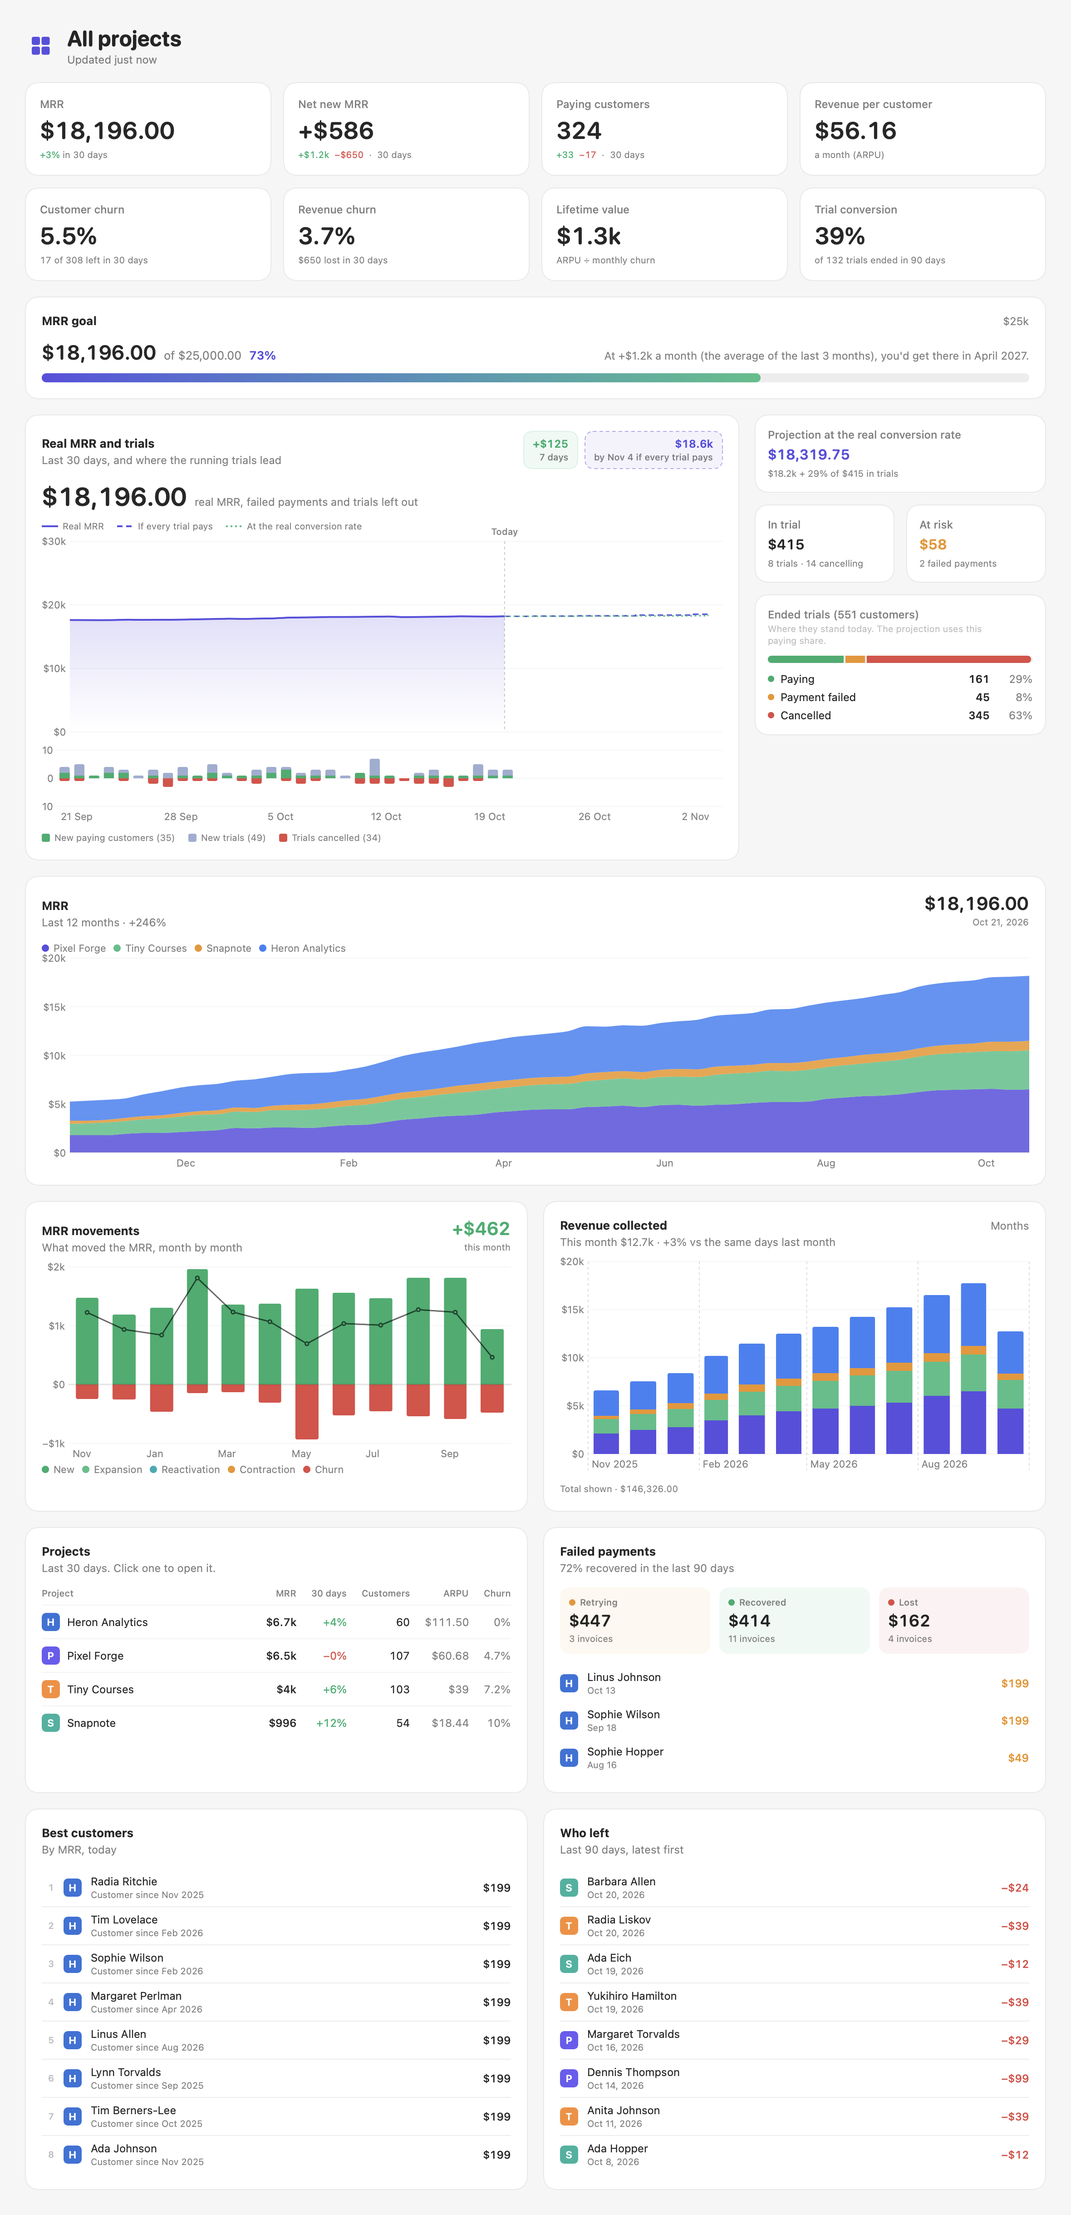
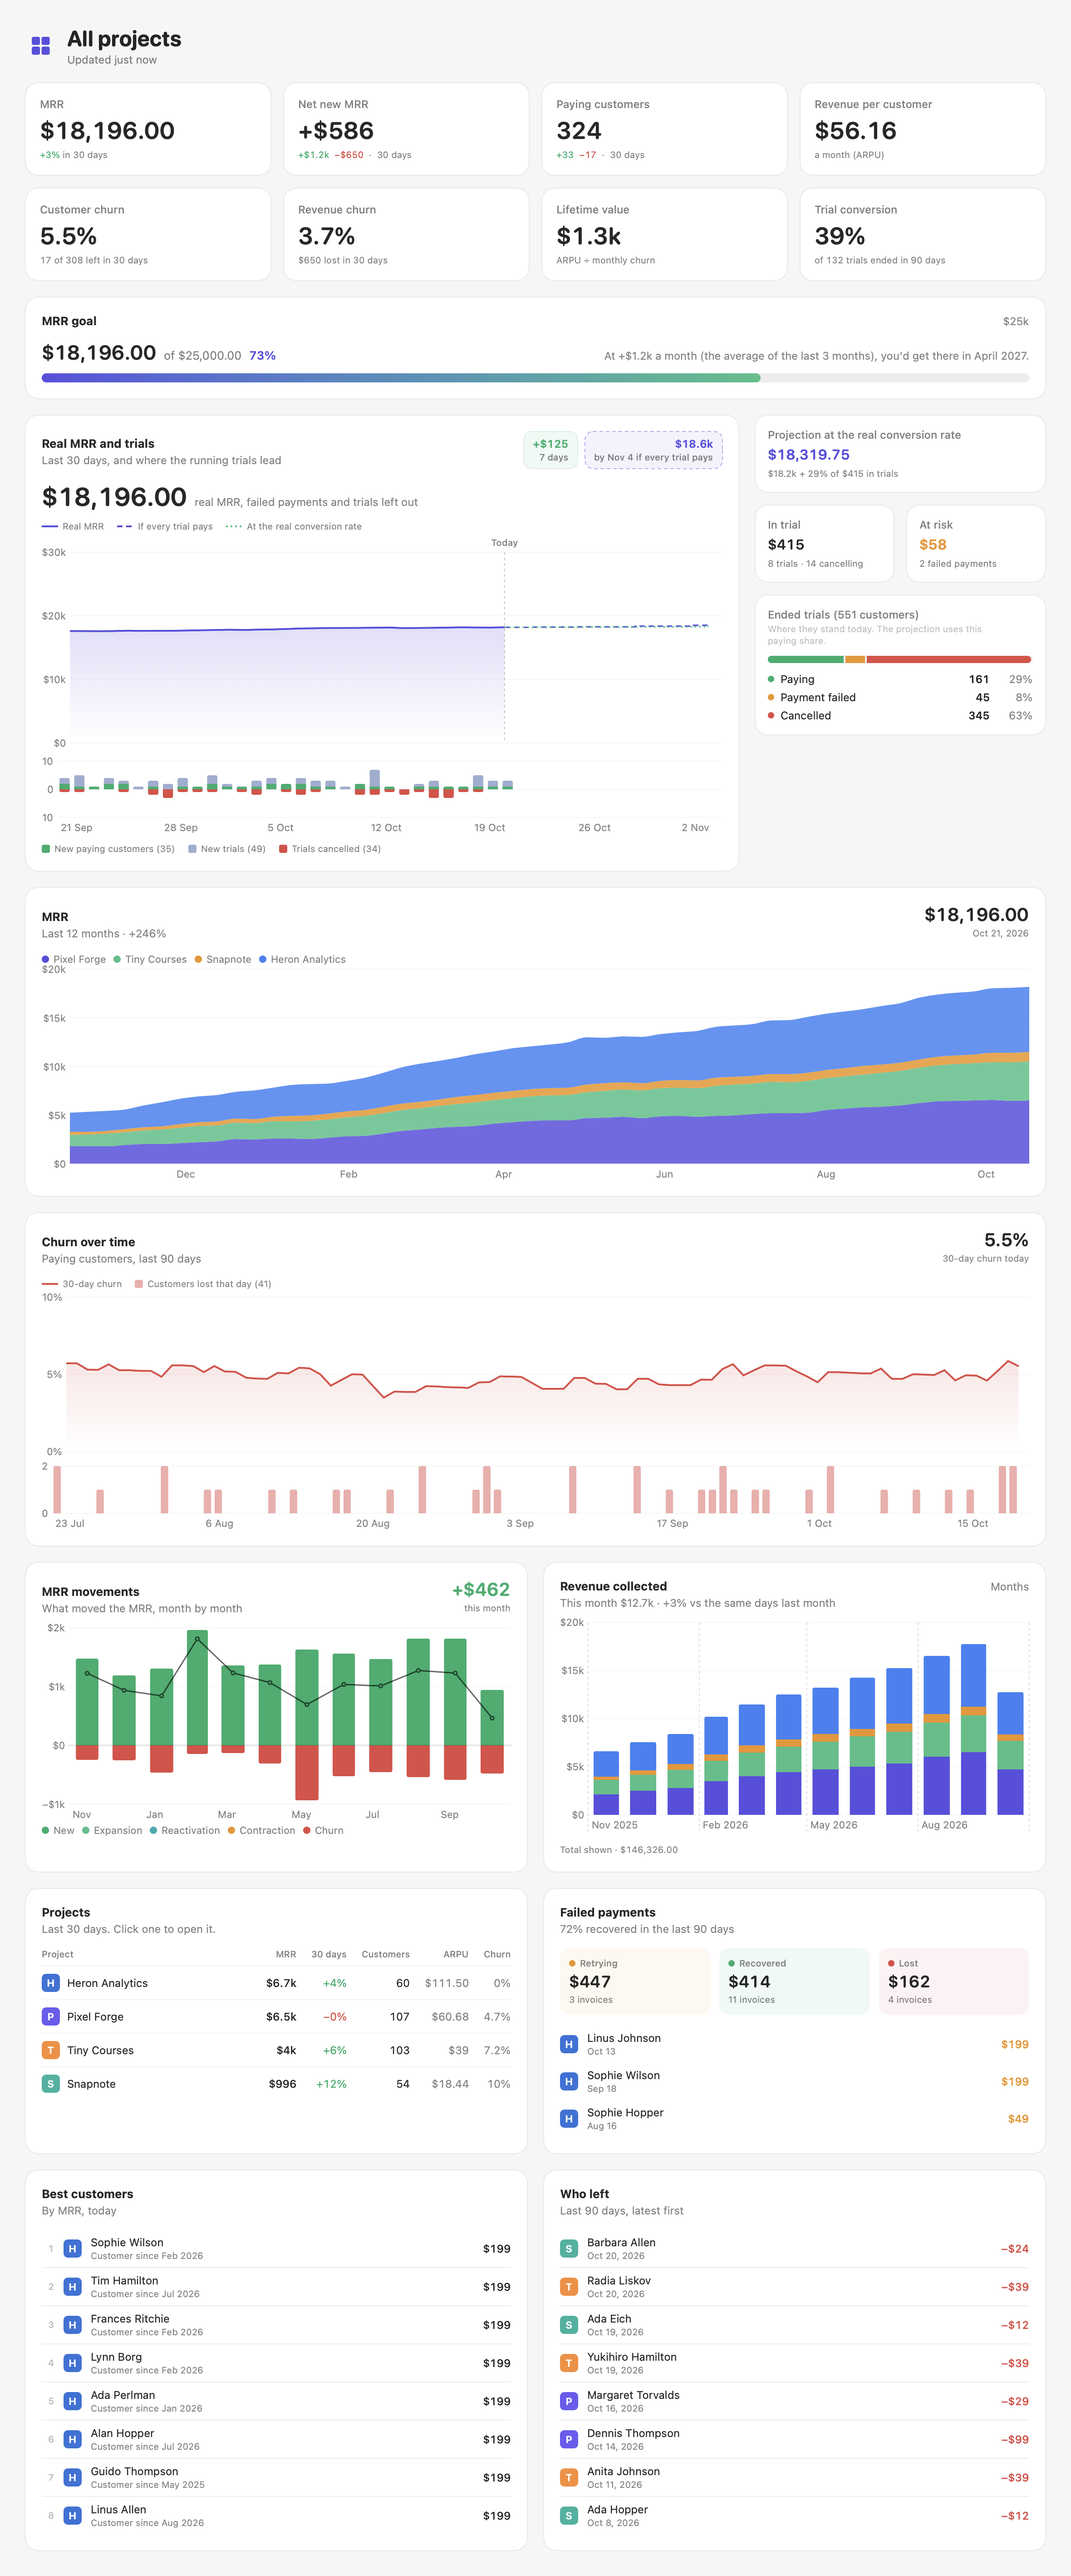
Dashboard: churn over time, the 30-day rolling churn of paying customers over 90 days with the customers lost each day, after the Viewlify admin board

diff --git a/Sources/Dashboard.swift b/Sources/Dashboard.swift
@@ -154,6 +154,7 @@ struct DashboardContent: View {
             if model.dashboardSelection.isEmpty { GoalCard(model: model) }
             ProjectionSection(model: model)
             MrrChartCard(model: model)
+            ChurnCard(model: model)
             Grid(horizontalSpacing: 18, verticalSpacing: 18) {
                 GridRow {
                     MovementsCard(model: model)
@@ -1146,5 +1147,96 @@ struct ChartTip: View {
         .background(Palette.surface, in: RoundedRectangle(cornerRadius: 9))
         .overlay(RoundedRectangle(cornerRadius: 9).stroke(Palette.line))
         .shadow(color: .black.opacity(0.12), radius: 8, y: 3)
+    }
+}
+
+// MARK: Churn over time
+
+/// The 30-day rolling churn of paying customers over the last 90 days, with the customers lost each day under it.
+struct ChurnCard: View {
+    @ObservedObject var model: Model
+    @State private var hover: Date?
+
+    var body: some View {
+        let days = model.dashboard.churn
+        let first = days.first?.date ?? Date(), last = (days.last?.date ?? Date()).addingTimeInterval(86400)
+        let now = days.last?.rate
+        let lost = days.reduce(0) { $0 + $1.lost }
+        let picked = hover.flatMap { h in days.min { abs($0.date.addingTimeInterval(43200).timeIntervalSince(h)) < abs($1.date.addingTimeInterval(43200).timeIntervalSince(h)) } }
+        let top = max(0.1, (days.compactMap(\.rate).max() ?? 0) * 1.25)
+        Card(title: String(localized: "Churn over time"), subtitle: String(localized: "Paying customers, last 90 days")) {
+            VStack(alignment: .trailing, spacing: 2) {
+                Text(Fmt.percent(now)).font(.system(size: 20, weight: .semibold, design: .rounded)).monospacedDigit()
+                    .foregroundStyle((now ?? 0) > 0.1 ? Palette.loss : .primary)
+                Text("30-day churn today").font(.caption).foregroundStyle(.secondary)
+            }
+        } content: {
+            VStack(alignment: .leading, spacing: 8) {
+                HStack(spacing: 14) {
+                    HStack(spacing: 5) {
+                        Path { $0.move(to: CGPoint(x: 0, y: 4)); $0.addLine(to: CGPoint(x: 18, y: 4)) }.stroke(Palette.loss, lineWidth: 2).frame(width: 18, height: 8)
+                        Text("30-day churn")
+                    }
+                    HStack(spacing: 5) {
+                        RoundedRectangle(cornerRadius: 2).fill(Palette.loss.opacity(0.45)).frame(width: 9, height: 9)
+                        Text(String(format: String(localized: "Customers lost that day (%lld)"), lost))
+                    }
+                }
+                .font(.caption).foregroundStyle(.secondary)
+                Chart {
+                    ForEach(days.filter { $0.rate != nil }) { d in
+                        AreaMark(x: .value("Day", d.date), y: .value("Churn", d.rate!))
+                            .foregroundStyle(LinearGradient(colors: [Palette.loss.opacity(0.14), Palette.loss.opacity(0)], startPoint: .top, endPoint: .bottom))
+                        LineMark(x: .value("Day", d.date), y: .value("Churn", d.rate!))
+                            .foregroundStyle(Palette.loss).lineStyle(StrokeStyle(lineWidth: 2))
+                    }
+                    if let d = picked {
+                        let mid = first.addingTimeInterval(last.timeIntervalSince(first) / 2)
+                        RuleMark(x: .value("Hover", d.date))
+                            .foregroundStyle(Color.primary.opacity(0.3)).lineStyle(StrokeStyle(lineWidth: 1))
+                            .annotation(position: d.date > mid ? .leading : .trailing, alignment: .top, spacing: 8) {
+                                ChartTip(title: Fmt.date(d.date, "EEEE d MMM"), rows: [
+                                    (Palette.loss, String(localized: "30-day churn"), Fmt.percent(d.rate)),
+                                    (Palette.loss.opacity(0.45), String(localized: "Lost that day"), "\(d.lost)"),
+                                    (Color.secondary, String(localized: "Paying 30 days earlier"), "\(d.base)"),
+                                ])
+                            }
+                        if let r = d.rate { PointMark(x: .value("Day", d.date), y: .value("Churn", r)).foregroundStyle(Palette.loss).symbolSize(40) }
+                    }
+                }
+                .chartXScale(domain: first...last)
+                .chartYScale(domain: 0...top)
+                .chartYAxis {
+                    AxisMarks(position: .leading, values: .automatic(desiredCount: 4)) { v in
+                        AxisGridLine(stroke: StrokeStyle(lineWidth: 0.5)).foregroundStyle(Palette.line)
+                        AxisValueLabel { if let x = v.as(Double.self) { Text(Fmt.percent(x, digits: 0)) } }
+                    }
+                }
+                .chartXAxis(.hidden)
+                .modifier(HoverDate(hover: $hover))
+                .frame(height: 170)
+                Chart {
+                    ForEach(days.filter { $0.lost > 0 }) { d in
+                        BarMark(x: .value("Day", d.date, unit: .day), y: .value("Lost", d.lost)).foregroundStyle(Palette.loss.opacity(0.45))
+                    }
+                    if let d = picked {
+                        RuleMark(x: .value("Hover", d.date.addingTimeInterval(43200))).foregroundStyle(Color.primary.opacity(0.3)).lineStyle(StrokeStyle(lineWidth: 1))
+                    }
+                }
+                .chartXScale(domain: first...last)
+                .chartYAxis {
+                    AxisMarks(position: .leading, values: .automatic(desiredCount: 2)) { v in
+                        AxisGridLine(stroke: StrokeStyle(lineWidth: 0.5)).foregroundStyle(Palette.line)
+                        AxisValueLabel { if let x = v.as(Int.self) { Text("\(x)") } }
+                    }
+                }
+                .chartXAxis {
+                    AxisMarks(values: .stride(by: .day, count: 14)) { _ in AxisValueLabel(format: .dateTime.day().month(.abbreviated)) }
+                }
+                .modifier(HoverDate(hover: $hover))
+                .frame(height: 70)
+                .padding(.top, 8)
+            }
+        }
     }
 }

diff --git a/Sources/History.swift b/Sources/History.swift
@@ -124,6 +124,8 @@ struct DashboardData {
     struct Person: Identifiable { let id: String; let account: UUID; let who: String; let mrr: Int; let date: Date }
     struct Project: Identifiable { let id: UUID; let mrr: Int; let growth: Double?; let customers: Int; let churn: Double?; let arpu: Int }
     struct Failed: Identifiable { let account: UUID; let invoice: FailedInvoice; let amount: Int; var id: String { invoice.id } }
+    /// One day of churn: the share of the customers paying 30 days earlier who no longer pay, and who left that day.
+    struct ChurnDay: Identifiable { let date: Date; let rate: Double?; let lost: Int; let base: Int; var id: Date { date } }
 
     var series: [Point] = []
     var months: [Month] = []
@@ -136,6 +138,7 @@ struct DashboardData {
     var top: [Person] = []
     var churned: [Person] = []
     var projects: [Project] = []
+    var churn: [ChurnDay] = []
     /// Average net new MRR a month over the last 3 full months.
     var pace: Int?
 
@@ -222,6 +225,23 @@ enum Analytics {
         }
         d.churned.sort { $0.date > $1.date }
         d.churned = Array(d.churned.prefix(8))
+
+        // Churn over time: 30-day rolling customer churn, and customers lost each day, over the last 90 days
+        let today = cal.startOfDay(for: now)
+        let span = 90, window = 30
+        var paying: [Int: Set<String>] = [:]   // days ago -> customers paying at the end of that day
+        for k in 0...(span + window) {
+            let day = cal.date(byAdding: .day, value: -k, to: today)!
+            let t = k == 0 ? now : min(now, cal.date(byAdding: .day, value: 1, to: day)!.addingTimeInterval(-1))
+            paying[k] = Set(values(list, t).keys)
+        }
+        for k in stride(from: span, through: 0, by: -1) {
+            let day = cal.date(byAdding: .day, value: -k, to: today)!
+            let base = paying[k + window] ?? []
+            let gone = base.subtracting(paying[k] ?? [])
+            let lost = (paying[k + 1] ?? []).subtracting(paying[k] ?? []).count
+            d.churn.append(.init(date: day, rate: base.isEmpty ? nil : Double(gone.count) / Double(base.count), lost: lost, base: base.count))
+        }
 
         for a in all {
             let m = movement(items([a]), now.addingTimeInterval(-30 * day), now)

diff --git a/README.md b/README.md
@@ -39,6 +39,7 @@ Click the **Dashboard** card under today's figure (or press ⌘D), or a project,
 - **MRR over 3, 6 or 12 months**, all projects stacked or one at a time. Hover the chart to read any week.
 - **Where the MRR comes from and goes**, month by month: new customers, upgrades, returning customers, downgrades and cancellations, with the net change.
 - **The numbers that matter:** net new MRR, paying customers, revenue per customer, customer and revenue churn, lifetime value, trial conversion.
+- **Churn over time:** the 30-day rolling churn of paying customers over the last 90 days, with the customers lost each day.
 - **Revenue collected** by day, week or month, and this month against the same days of last month.
 - **An MRR goal**, with the month you'll reach it at your current pace.
 - **Failed payments** of the last 90 days: still retrying, recovered, lost, and your recovery rate.
